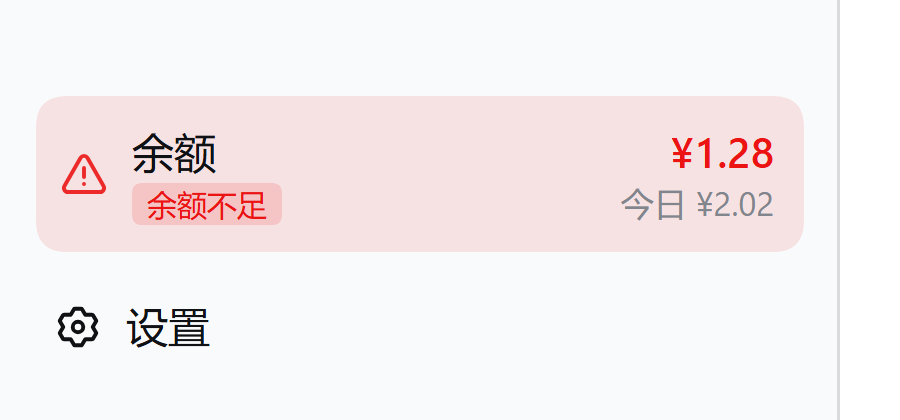
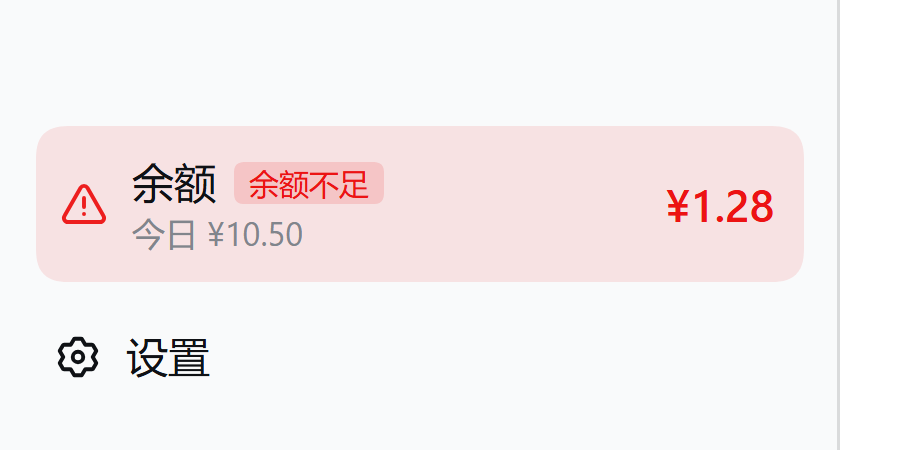
fix(ui): 金额改为整行垂直居中，今日消费移到左侧第二行
- 之前图标按两行整体居中、金额却在第一行，视觉重心偏上
- 现在左列「余额（+低余额标签）/ 今日消费」，金额独立成右列并垂直居中
- 浮层：主币种分项与分隔线之间补 8px 呼吸
- 文档截图按新布局重拍（正常 / 低余额 / 账号路由 / 取数失败）
- 新增 scripts/verify/inspect-widget.mjs：量盒模型 + 截控件放大图
- .gitignore 忽略本地验证临时目录 .verify/

Changed region(s): [[0.0622, 0.3095, 0.4356, 0.5571], [0.6844, 0.3095, 0.8711, 0.5262], [0.0622, 0.7119, 0.2489, 0.8357]]

diff --git a/src/client/widget.ts b/src/client/widget.ts
@@ -363,7 +363,8 @@ export function createBalanceWidget(deps: WidgetDeps): ReactNS.ComponentType<Wid
 
     const stateDot = tone === 'ok' ? null : h('span', { className: `dshb-dot dshb-dot-${tone}`, 'aria-hidden': 'true' })
 
-    // 双行内容：没有今日数据时第二行保留空位，避免展开/收起时行高跳动。
+    // 左列两行：余额（+ 低余额标签）/ 今日消费；金额独立成右列并垂直居中，
+    // 这样视觉重心落在整行中央，而不是被第二行顶到上面去。
     const textBlock = wide
       ? h(
           'span',
@@ -372,13 +373,12 @@ export function createBalanceWidget(deps: WidgetDeps): ReactNS.ComponentType<Wid
             'span',
             { className: 'dshb-row' },
             h('span', { className: 'dshb-label' }, t('label')),
-            h('span', { className: 'dshb-value' }, valueText),
+            isLow ? h('span', { className: 'dshb-low-tag' }, t('lowTag')) : null,
           ),
           h(
             'span',
-            { className: 'dshb-row dshb-row-sub' },
-            isLow ? h('span', { className: 'dshb-low-tag' }, t('lowTag')) : null,
-            spendText !== null ? h('span', { className: 'dshb-today' }, `${t('today')} ${spendText}`) : null,
+            { className: 'dshb-sub' },
+            spendText !== null ? `${t('today')} ${spendText}` : '',
           ),
         )
       : null
@@ -398,6 +398,7 @@ export function createBalanceWidget(deps: WidgetDeps): ReactNS.ComponentType<Wid
       },
       h('span', { className: 'dshb-icon', 'aria-hidden': 'true' }, iconNode),
       textBlock,
+      wide ? h('span', { className: 'dshb-value' }, valueText) : null,
       stateDot,
     )
 
@@ -406,7 +407,7 @@ export function createBalanceWidget(deps: WidgetDeps): ReactNS.ComponentType<Wid
       primary !== undefined && (primary.granted !== undefined || primary.toppedUp !== undefined)
         ? h(
             'div',
-            { className: 'dshb-wallet-sub' },
+            { className: 'dshb-wallet-sub dshb-breakdown' },
             primary.granted !== undefined
               ? h('span', null, t('granted', { amount: formatAmount(primary.granted, primary.currency) }))
               : null,

diff --git a/src/client/styles.ts b/src/client/styles.ts
@@ -91,41 +91,39 @@ const STYLES = `
 
 .dshb-row {
   display: flex;
-  align-items: baseline;
-  justify-content: space-between;
-  gap: 8px;
+  align-items: center;
+  gap: 6px;
   min-width: 0;
-}
-
-/* 第二行始终占位，避免今日数据到达时行高跳动。 */
-.dshb-row-sub {
-  min-height: 14px;
 }
 
 .dshb-label {
   flex: none;
   color: var(--dsw-alias-label-primary, inherit);
-}
-
-.dshb-value {
-  flex: 0 1 auto;
-  min-width: 0;
-  overflow: hidden;
-  text-align: right;
-  text-overflow: ellipsis;
   white-space: nowrap;
-  font-weight: 500;
-  font-variant-numeric: tabular-nums;
 }
 
-.dshb-today {
-  margin-left: auto;
+/* 第二行（今日消费）始终占位，避免数据到达时行高跳动。 */
+.dshb-sub {
+  min-height: 14px;
   overflow: hidden;
   text-overflow: ellipsis;
   white-space: nowrap;
   color: var(--dsw-alias-label-tertiary, inherit);
   font-size: 11px;
   line-height: 14px;
+  font-variant-numeric: tabular-nums;
+}
+
+/* 金额独立成右列、随整行垂直居中（不再被第二行顶到上面）。 */
+.dshb-value {
+  flex: none;
+  margin-left: auto;
+  padding-left: 8px;
+  white-space: nowrap;
+  font-size: 15px;
+  line-height: 22px;
+  font-weight: 600;
+  letter-spacing: -0.01em;
   font-variant-numeric: tabular-nums;
 }
 
@@ -378,6 +376,11 @@ const STYLES = `
 
 .dshb-sep {
   color: var(--dsw-alias-label-tertiary, inherit);
+}
+
+/* 主币种分项直接跟在 hero 下面，给下方分隔线留一点呼吸。 */
+.dshb-breakdown {
+  padding-bottom: 8px;
 }
 
 .dshb-empty {
